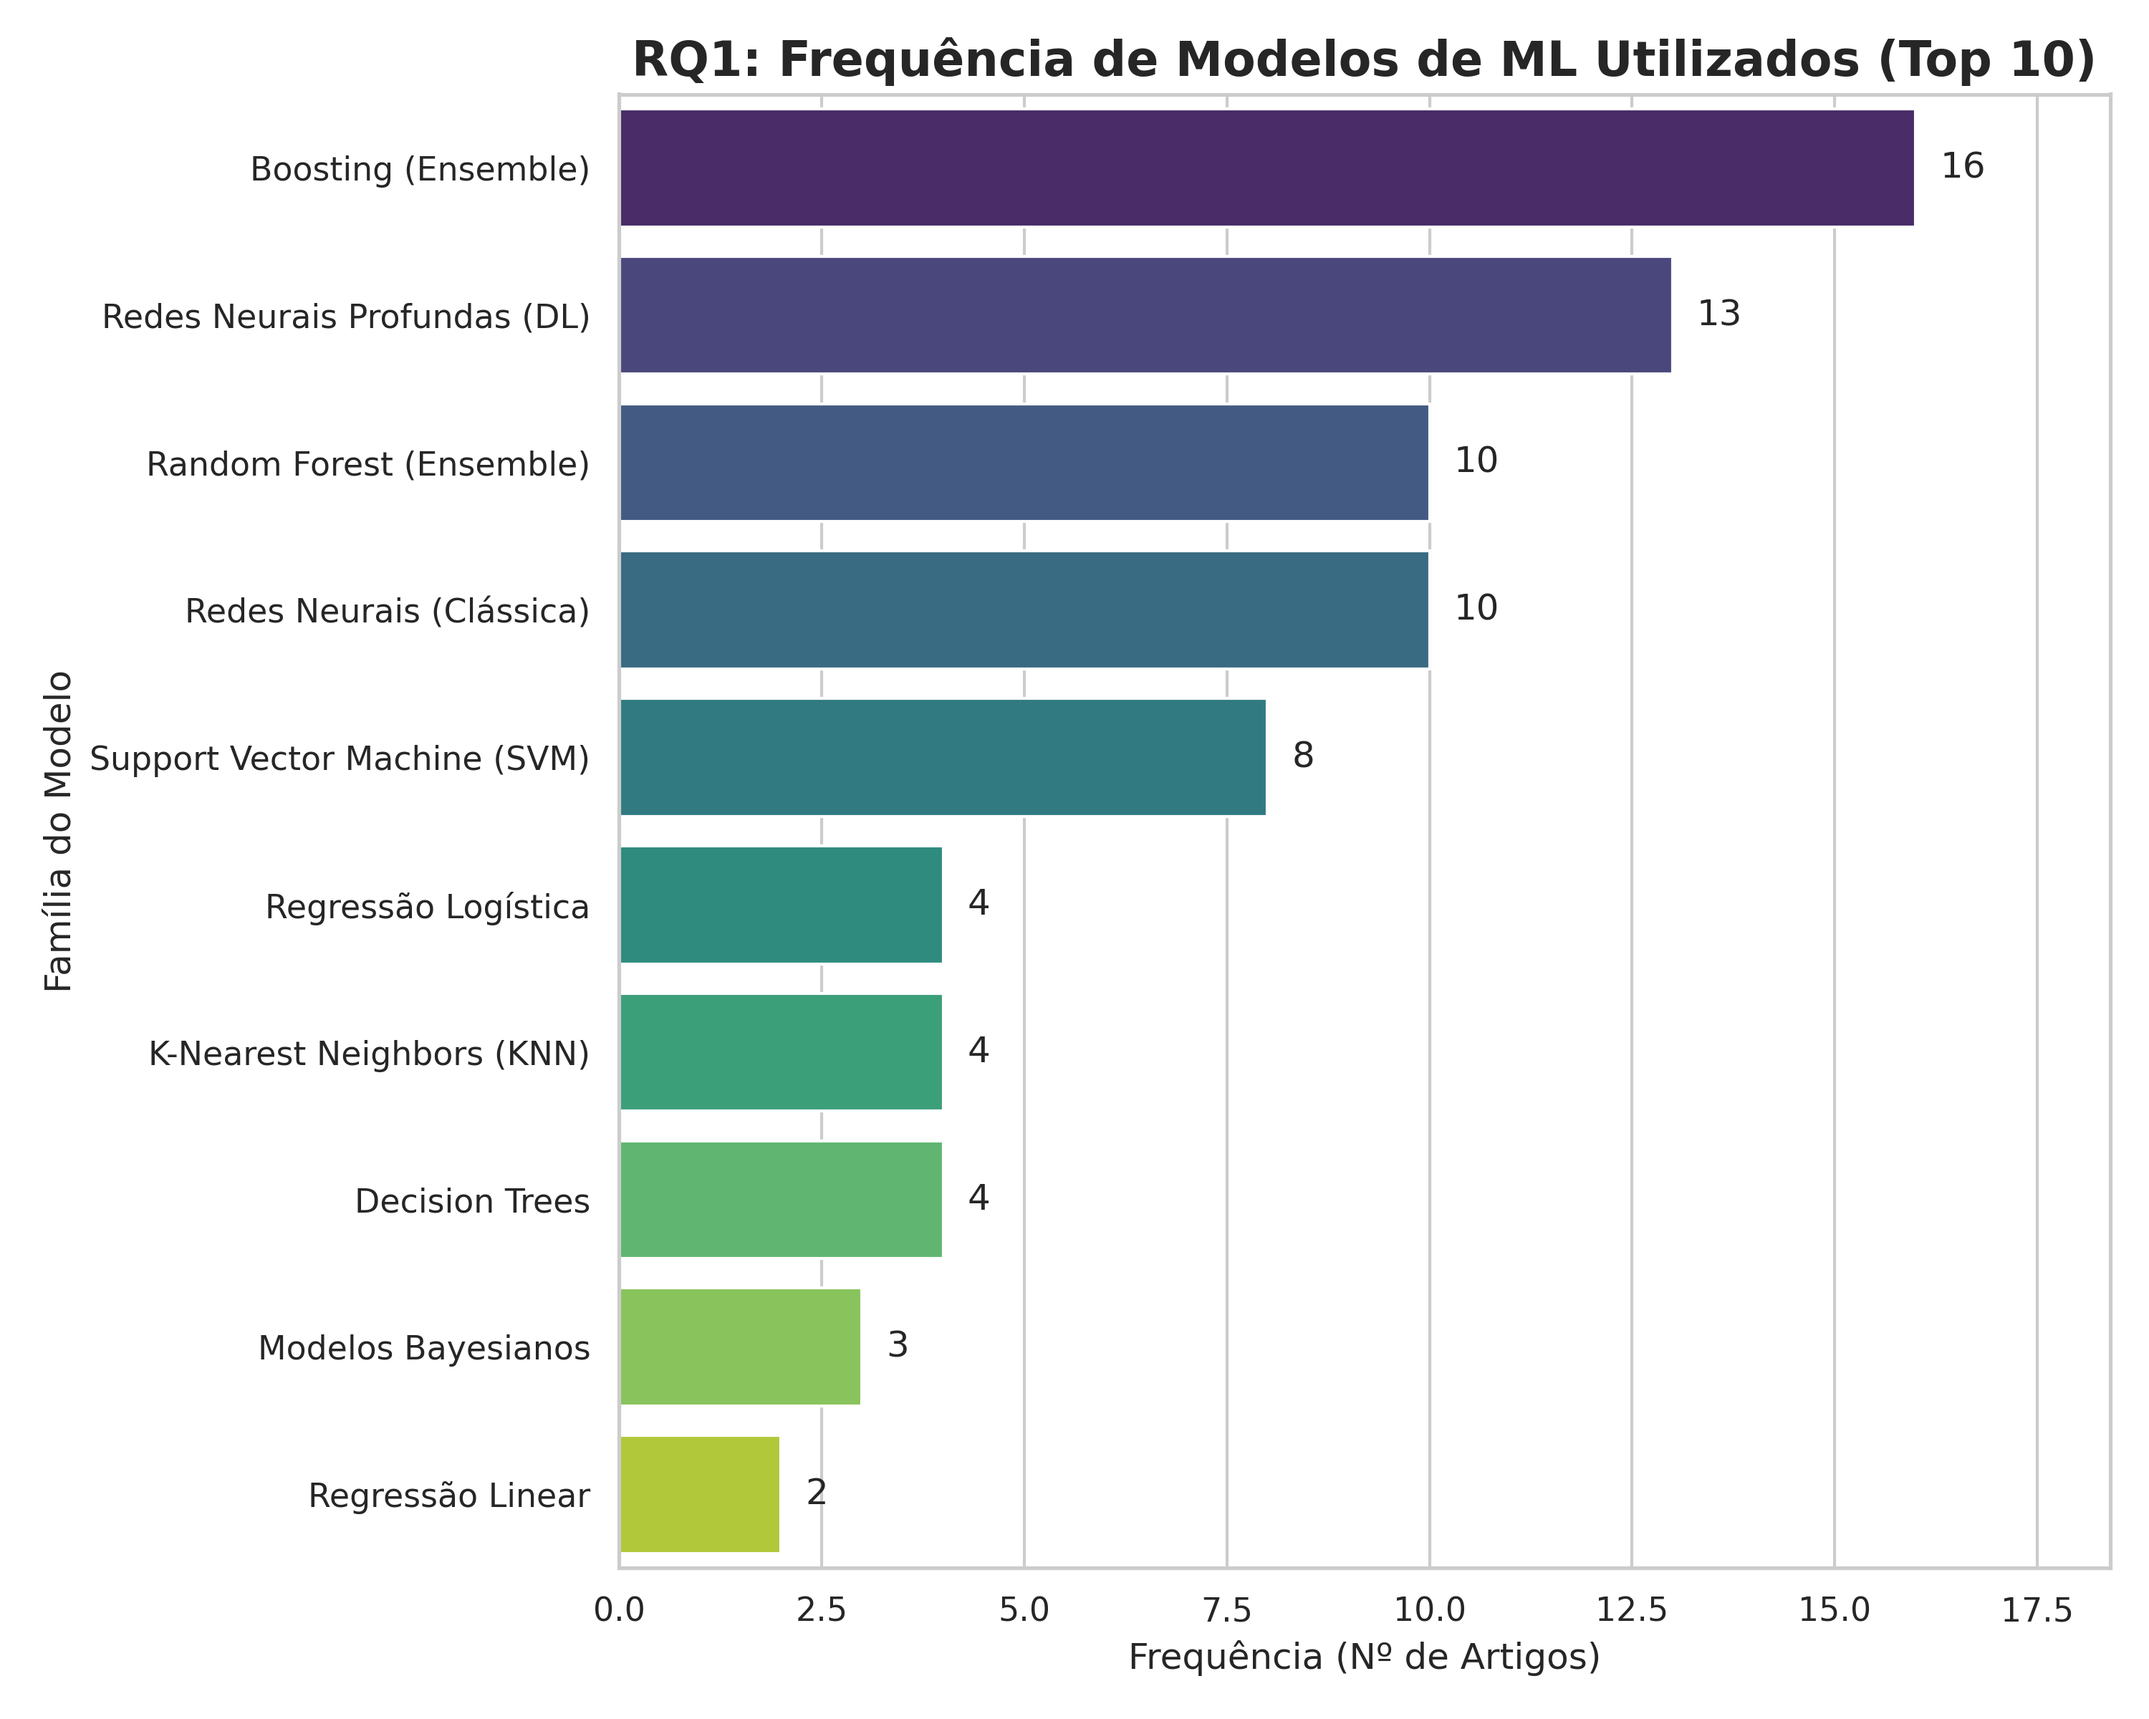
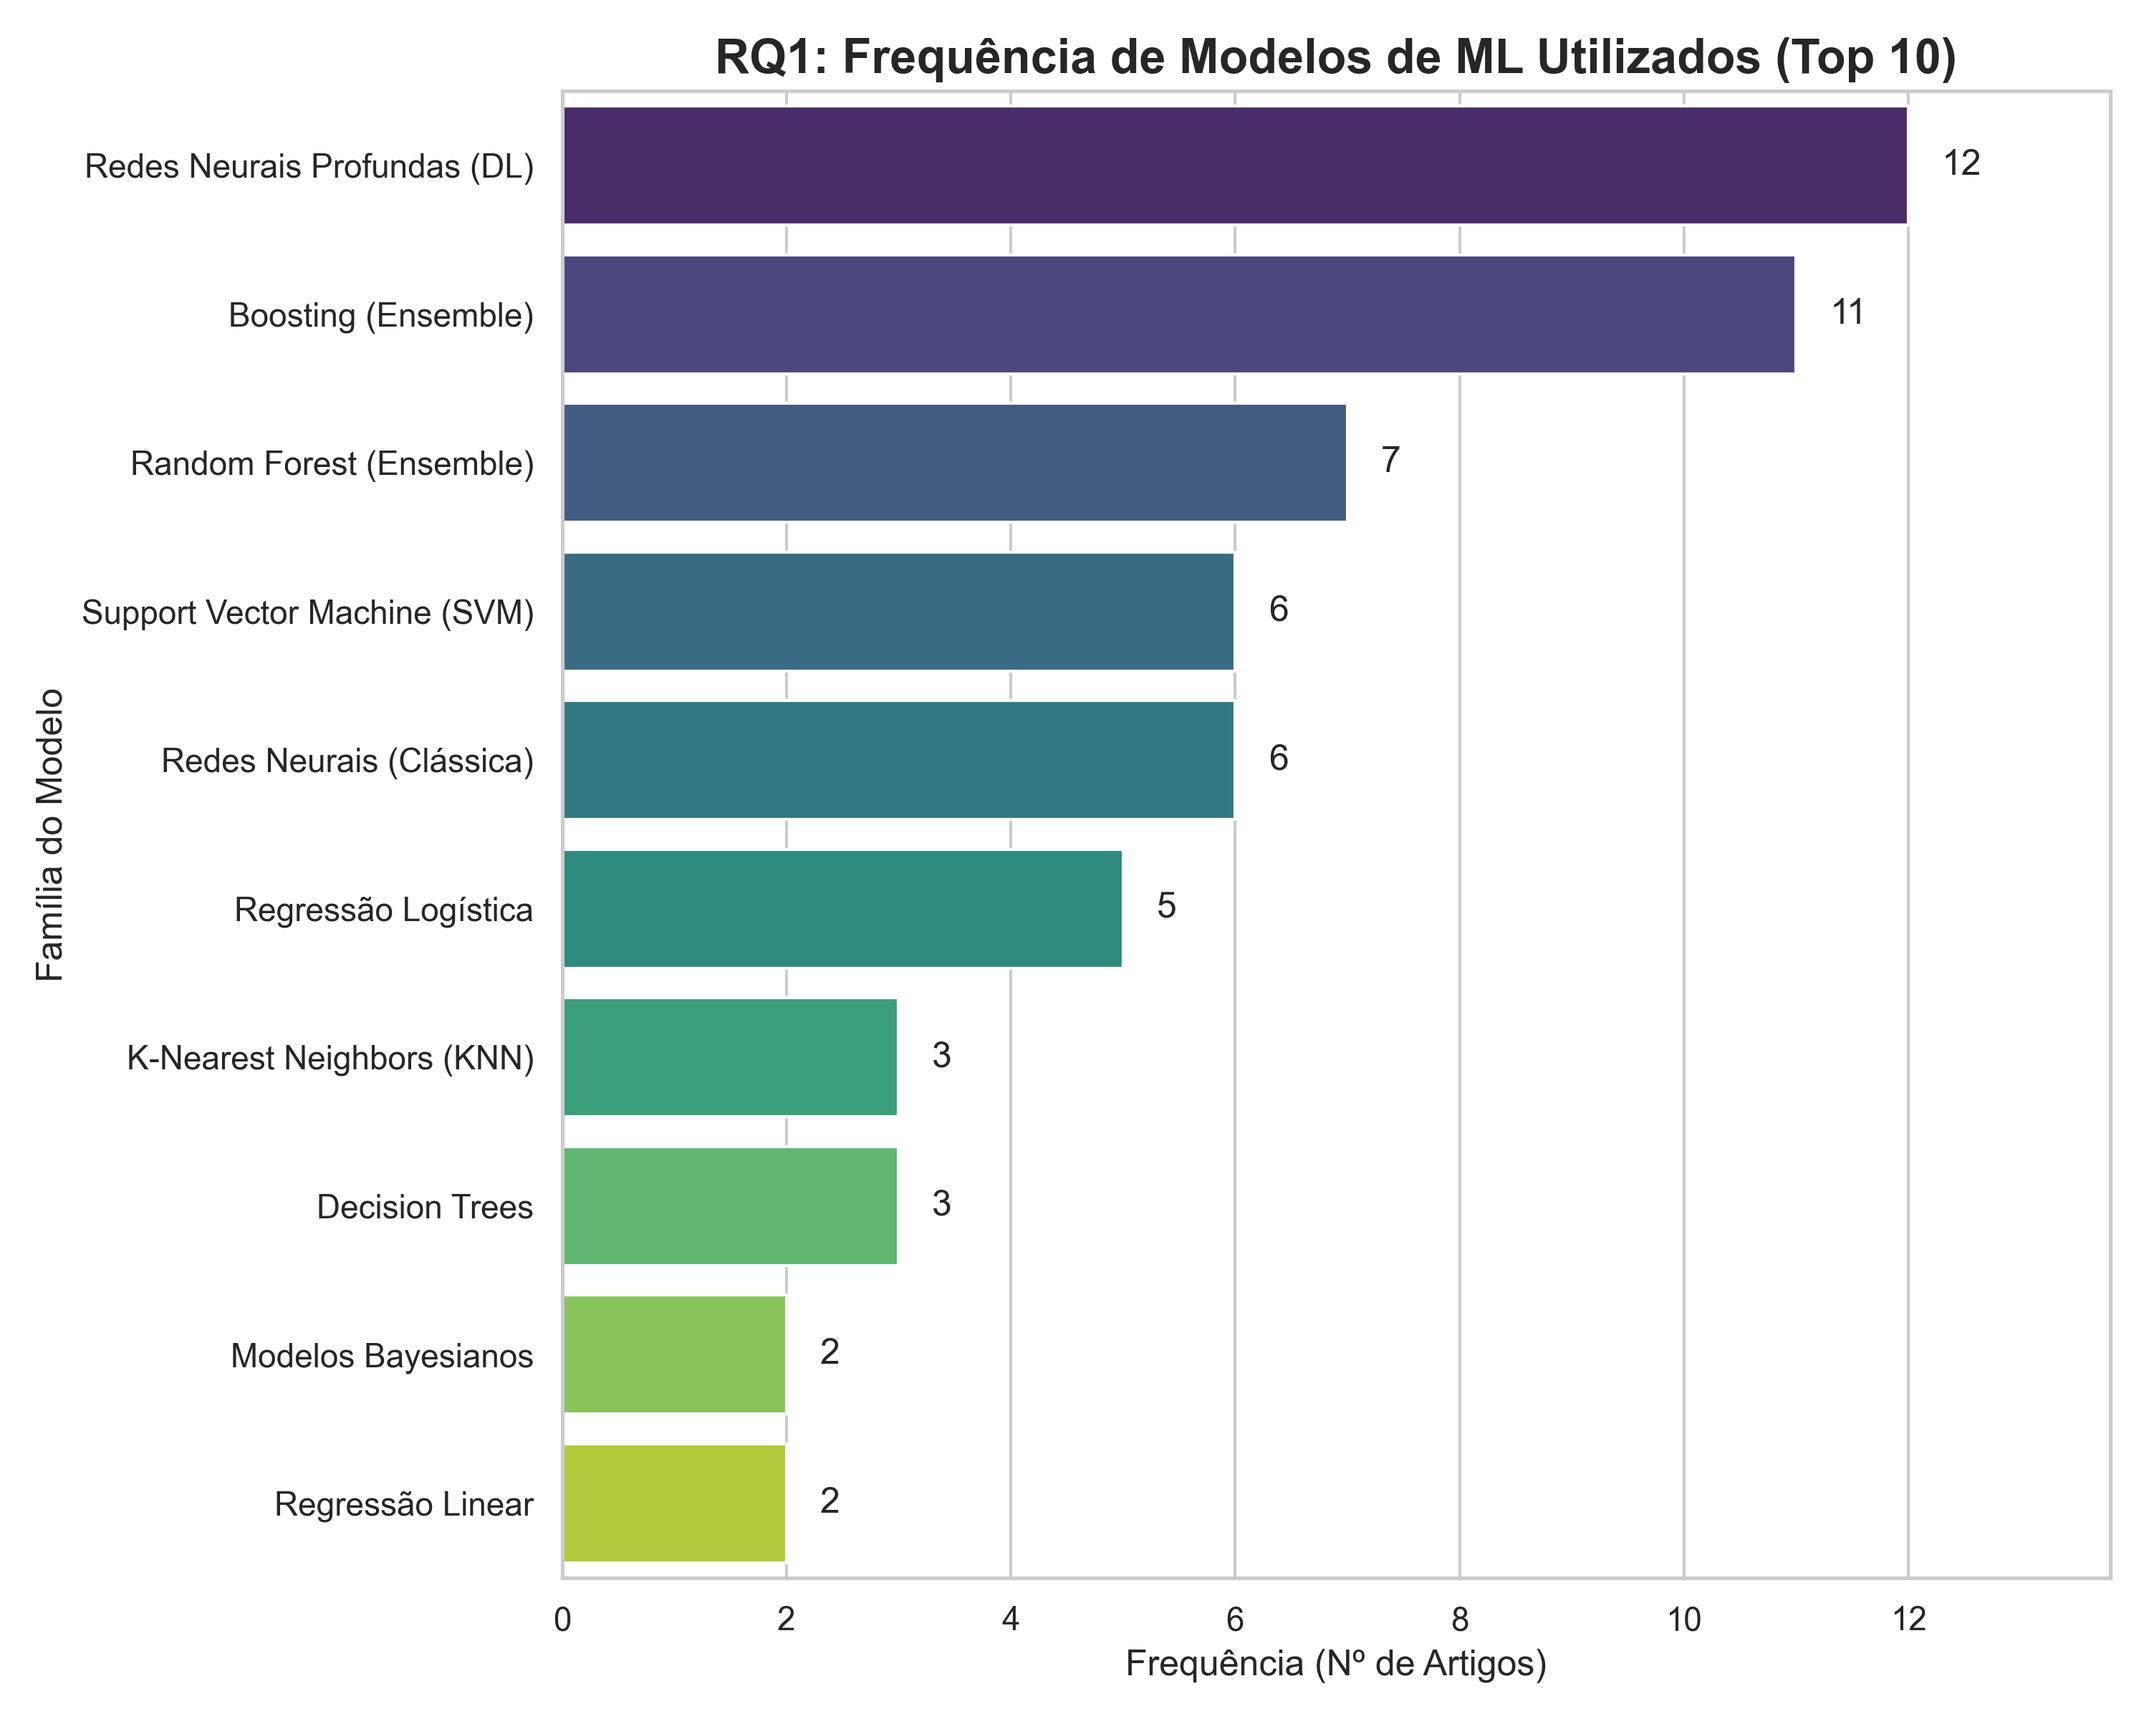
Update: nova tabela 14_atualizado.csv + ajuste no ce_graficos.py

diff --git a/ce_graficos.py b/ce_graficos.py
@@ -6,7 +6,8 @@ from collections import Counter
 
 # Configurações estéticas globais para os gráficos
 sns.set_theme(style="whitegrid")
-palette = "viridis" # Paleta de cores consistente
+palette = "viridis"  # Paleta de cores consistente
+
 
 def clean_and_normalize_models(series):
     """Limpa e normaliza a coluna 'Técnicas de ML Usadas'."""
@@ -52,30 +53,33 @@ def clean_and_normalize_models(series):
         'Modelos Bayesianos': 'Modelos Bayesianos',
         'Bayesian Networks': 'Modelos Bayesianos',
     }
-    
+
     noise = [
-        'etc', 'ex:', 'para', 'seleção de features', 'outros', 'Ensemble Methods', 
+        'etc', 'ex:', 'para', 'seleção de features', 'outros', 'Ensemble Methods',
         'SHAP', 'LIME', 'interpretabilidade', 'ELO Rating', 'SHAP'
     ]
-    
+
     all_models = []
     for cell_text in series.dropna():
         # Substitui parênteses e caracteres especiais por vírgulas para separar
         cleaned_text = re.sub(r'[\(\)/;]', ',', cell_text)
         models = cleaned_text.split(',')
-        
+
         for model in models:
             model_strip = model.strip()
-            
+
             # Normaliza
-            normalized_model = model_normalization_map.get(model_strip, model_strip)
-            
+            normalized_model = model_normalization_map.get(
+                model_strip, model_strip)
+
             # Filtra ruídos e nomes curtos/genéricos
-            is_noise = any(n.lower() in normalized_model.lower() for n in noise)
+            is_noise = any(n.lower() in normalized_model.lower()
+                           for n in noise)
             if normalized_model and len(normalized_model) > 3 and not is_noise:
                 all_models.append(normalized_model)
-                
+
     return pd.Series(all_models).value_counts()
+
 
 def clean_and_normalize_metrics(series):
     """Limpa e normaliza a coluna 'Métricas de Avaliação'."""
@@ -108,16 +112,17 @@ def clean_and_normalize_metrics(series):
         'Sensitivity': 'Recall',
         'Specificity': 'Specificity',
     }
-    
+
     all_metrics = []
     for cell_text in series.dropna():
         cleaned_text = re.sub(r'[\(\)/;]', ',', cell_text)
         metrics = cleaned_text.split(',')
-        
+
         for metric in metrics:
             metric_strip = metric.strip()
-            normalized_metric = metric_normalization_map.get(metric_strip, metric_strip)
-            
+            normalized_metric = metric_normalization_map.get(
+                metric_strip, metric_strip)
+
             if normalized_metric and len(normalized_metric) > 2:
                 # Tratamento especial para evitar contagem de métricas parciais
                 found = False
@@ -127,10 +132,11 @@ def clean_and_normalize_metrics(series):
                         found = True
                         break
                 if not found and len(normalized_metric) > 3 and 'cit' not in normalized_metric:
-                     all_metrics.append(normalized_metric)
+                    all_metrics.append(normalized_metric)
 
     # Remove duplicatas por artigo (um artigo pode citar 'Accuracy' 3x)
     return pd.Series(all_metrics).value_counts()
+
 
 def clean_and_normalize_limitations(df_limit, df_gaps):
     """Codifica tematicamente as colunas 'Limitações' e 'Lacunas'."""
@@ -142,26 +148,28 @@ def clean_and_normalize_limitations(df_limit, df_gaps):
         "Qualidade/Falta de Features": r'qualidade dos dados|features|variáveis|dados limitados|incompletos',
         "Overfitting": r'overfitting|sobreajuste',
     }
-    
+
     all_text = df_limit.dropna().astype(str) + " " + df_gaps.dropna().astype(str)
     themes_found = []
-    
+
     for text in all_text:
-        found_in_article = set() # Evita contagem dupla do mesmo tema no *mesmo* artigo
+        found_in_article = set()  # Evita contagem dupla do mesmo tema no *mesmo* artigo
         for theme, pattern in theme_map.items():
             if re.search(pattern, text, re.IGNORECASE):
                 found_in_article.add(theme)
         themes_found.extend(list(found_in_article))
-        
+
     return pd.Series(themes_found).value_counts()
+
 
 def plot_horizontal_bar(data, title, filename, xlabel, ylabel, figsize=(10, 8)):
     """Função genérica para criar um gráfico de barras horizontal estético."""
     # Esta linha é crucial
-    df_plot = data.to_frame(name='Frequência').reset_index().rename(columns={'index': 'Categoria'})
-    
+    df_plot = data.to_frame(name='Frequência').reset_index().rename(
+        columns={'index': 'Categoria'})
+
     plt.figure(figsize=figsize)
-    
+
     # Adicionado 'hue' e 'legend=False' para resolver o FutureWarning
     barplot = sns.barplot(
         x='Frequência',
@@ -171,33 +179,35 @@ def plot_horizontal_bar(data, title, filename, xlabel, ylabel, figsize=(10, 8)):
         hue='Categoria',
         legend=False
     )
-    
+
     # Adiciona rótulos de dados
     for p in barplot.patches:
         width = p.get_width()
-        plt.text(width + 0.3, # Posição x (um pouco à frente da barra)
-                 p.get_y() + p.get_height() / 2, # Posição y (centro da barra)
-                 f'{width:.0f}', # O texto
+        plt.text(width + 0.3,  # Posição x (um pouco à frente da barra)
+                 p.get_y() + p.get_height() / 2,  # Posição y (centro da barra)
+                 f'{width:.0f}',  # O texto
                  va='center')
-    
+
     plt.title(title, fontsize=16, fontweight='bold')
     plt.xlabel(xlabel, fontsize=12)
     plt.ylabel(ylabel, fontsize=12)
-    plt.xlim(0, data.max() * 1.15) # Ajusta o limite de x para dar espaço aos rótulos
+    # Ajusta o limite de x para dar espaço aos rótulos
+    plt.xlim(0, data.max() * 1.15)
     plt.tight_layout()
     plt.savefig(filename, dpi=300)
     print(f"Gráfico salvo: {filename}")
 
+
 def plot_vertical_bar(data, title, filename, xlabel, ylabel, figsize=(10, 6)):
     """Função genérica para criar um gráfico de barras vertical estético."""
-    
+
     df_plot = data.to_frame(name='Frequência').reset_index()
-    
+
     coluna_categoria = df_plot.columns[0]
     df_plot = df_plot.rename(columns={coluna_categoria: 'Categoria'})
 
     plt.figure(figsize=figsize)
-    
+
     # Agora o 'x' e 'hue' funcionarão, pois a coluna 'Categoria' sempre existirá
     barplot = sns.barplot(
         x='Categoria',
@@ -207,39 +217,41 @@ def plot_vertical_bar(data, title, filename, xlabel, ylabel, figsize=(10, 6)):
         hue='Categoria',
         legend=False
     )
-    
+
     # Adiciona rótulos de dados
     for p in barplot.patches:
         barplot.annotate(format(p.get_height(), '.0f'),
                          (p.get_x() + p.get_width() / 2., p.get_height()),
-                         ha = 'center', va = 'center',
-                         xytext = (0, 9),
-                         textcoords = 'offset points')
+                         ha='center', va='center',
+                         xytext=(0, 9),
+                         textcoords='offset points')
 
     plt.title(title, fontsize=16, fontweight='bold')
     plt.xlabel(xlabel, fontsize=12)
     plt.ylabel(ylabel, fontsize=12)
-    plt.ylim(0, data.max() * 1.15) # Ajusta o limite de y para dar espaço aos rótulos
-    
+    # Ajusta o limite de y para dar espaço aos rótulos
+    plt.ylim(0, data.max() * 1.15)
+
     # Ajuste para rotação de rótulos se houver muitas categorias (ex: RQ4)
-    if len(data) > 3 or max(len(str(s)) for s in data.index) > 15: 
-        plt.xticks(rotation=45, ha='right', fontsize=10) 
+    if len(data) > 3 or max(len(str(s)) for s in data.index) > 15:
+        plt.xticks(rotation=45, ha='right', fontsize=10)
     else:
-        plt.xticks(rotation=0, ha='center', fontsize=11) 
-        
+        plt.xticks(rotation=0, ha='center', fontsize=11)
+
     plt.tight_layout()
     plt.savefig(filename, dpi=300)
     print(f"Gráfico salvo: {filename}")
 
+
 # --- Execução Principal ---
 try:
-    df = pd.read_csv("14 - 14.csv")
-    print("Planilha '14 - 14.csv' carregada com sucesso.")
+    df = pd.read_csv("14_atualizado.csv", encoding="utf-8")
+    print("Planilha '14_atualizado.csv' carregada com sucesso.")
 
     # --- RQ1: Modelos de ML ---
     model_counts = clean_and_normalize_models(df['Técnicas de ML Usadas'])
     plot_horizontal_bar(
-        data=model_counts.head(10), # Mostra o Top 10
+        data=model_counts.head(10),  # Mostra o Top 10
         title="RQ1: Frequência de Modelos de ML Utilizados (Top 10)",
         filename="RQ1_Modelos_Frequencia.png",
         xlabel="Frequência (Nº de Artigos)",
@@ -247,9 +259,11 @@ try:
     )
 
     # --- RQ2: Esportes ---
-    df['Esporte_Limpo'] = df['Esporte'].apply(lambda x: 'Futebol' if 'Futebol' in str(x) else x)
-    df['Esporte_Limpo'] = df['Esporte_Limpo'].apply(lambda x: 'Futebol' if 'Soccer' in str(x) else x)
-    
+    df['Esporte_Limpo'] = df['Esporte'].apply(
+        lambda x: 'Futebol' if 'Futebol' in str(x) else x)
+    df['Esporte_Limpo'] = df['Esporte_Limpo'].apply(
+        lambda x: 'Futebol' if 'Soccer' in str(x) else x)
+
     sport_abbreviations = {
         'Basquete (National Basketball Association - NBA)': 'Basquete (NBA)',
         'Tênis (ATP e WTA)': 'Tênis (ATP/WTA)',
@@ -259,22 +273,22 @@ try:
 
     string_para_remover = 'Não se aplica (Foco na Escala da Indústria Esportiva - macroeconomia do esporte)'
     df_filtrado_rq2 = df[df['Esporte_Limpo'] != string_para_remover]
-    
+
     sport_counts = df_filtrado_rq2['Esporte_Limpo'].value_counts()
-    
+
     plot_vertical_bar(
         data=sport_counts,
         title="RQ2: Frequência de Esportes Investigados",
         filename="RQ2_Esportes_Frequencia.png",
         xlabel="Esporte",
         ylabel="Frequência (Nº de Artigos)",
-        figsize=(10, 7) # Ajuste de tamanho para legibilidade dos rótulos
+        figsize=(10, 7)  # Ajuste de tamanho para legibilidade dos rótulos
     )
-    
+
     # --- RQ3: Métricas de Avaliação ---
     metric_counts = clean_and_normalize_metrics(df['Métricas de Avaliação'])
     plot_horizontal_bar(
-        data=metric_counts.head(10), # Mostra o Top 10
+        data=metric_counts.head(10),  # Mostra o Top 10
         title="RQ3: Frequência de Métricas de Avaliação (Top 10)",
         filename="RQ3_Metricas_Frequencia.png",
         xlabel="Frequência (Nº de Artigos)",
@@ -282,14 +296,15 @@ try:
     )
 
     # --- RQ4: Lacunas e Limitações (Quantitativo) ---
-    limitation_counts = clean_and_normalize_limitations(df['Limitações'], df['Lacunas'])
+    limitation_counts = clean_and_normalize_limitations(
+        df['Limitações'], df['Lacunas'])
     plot_vertical_bar(
         data=limitation_counts,
         title="RQ4: Frequência de Limitações e Lacunas Reportadas",
         filename="RQ4_Limitacoes_Frequencia.png",
         xlabel="Tema da Limitação",
         ylabel="Frequência (Nº de Artigos)",
-        figsize=(12, 7) # Ajuste para legibilidade dos rótulos
+        figsize=(12, 7)  # Ajuste para legibilidade dos rótulos
     )
 
     # --- RQ5: Publicações por Ano ---
